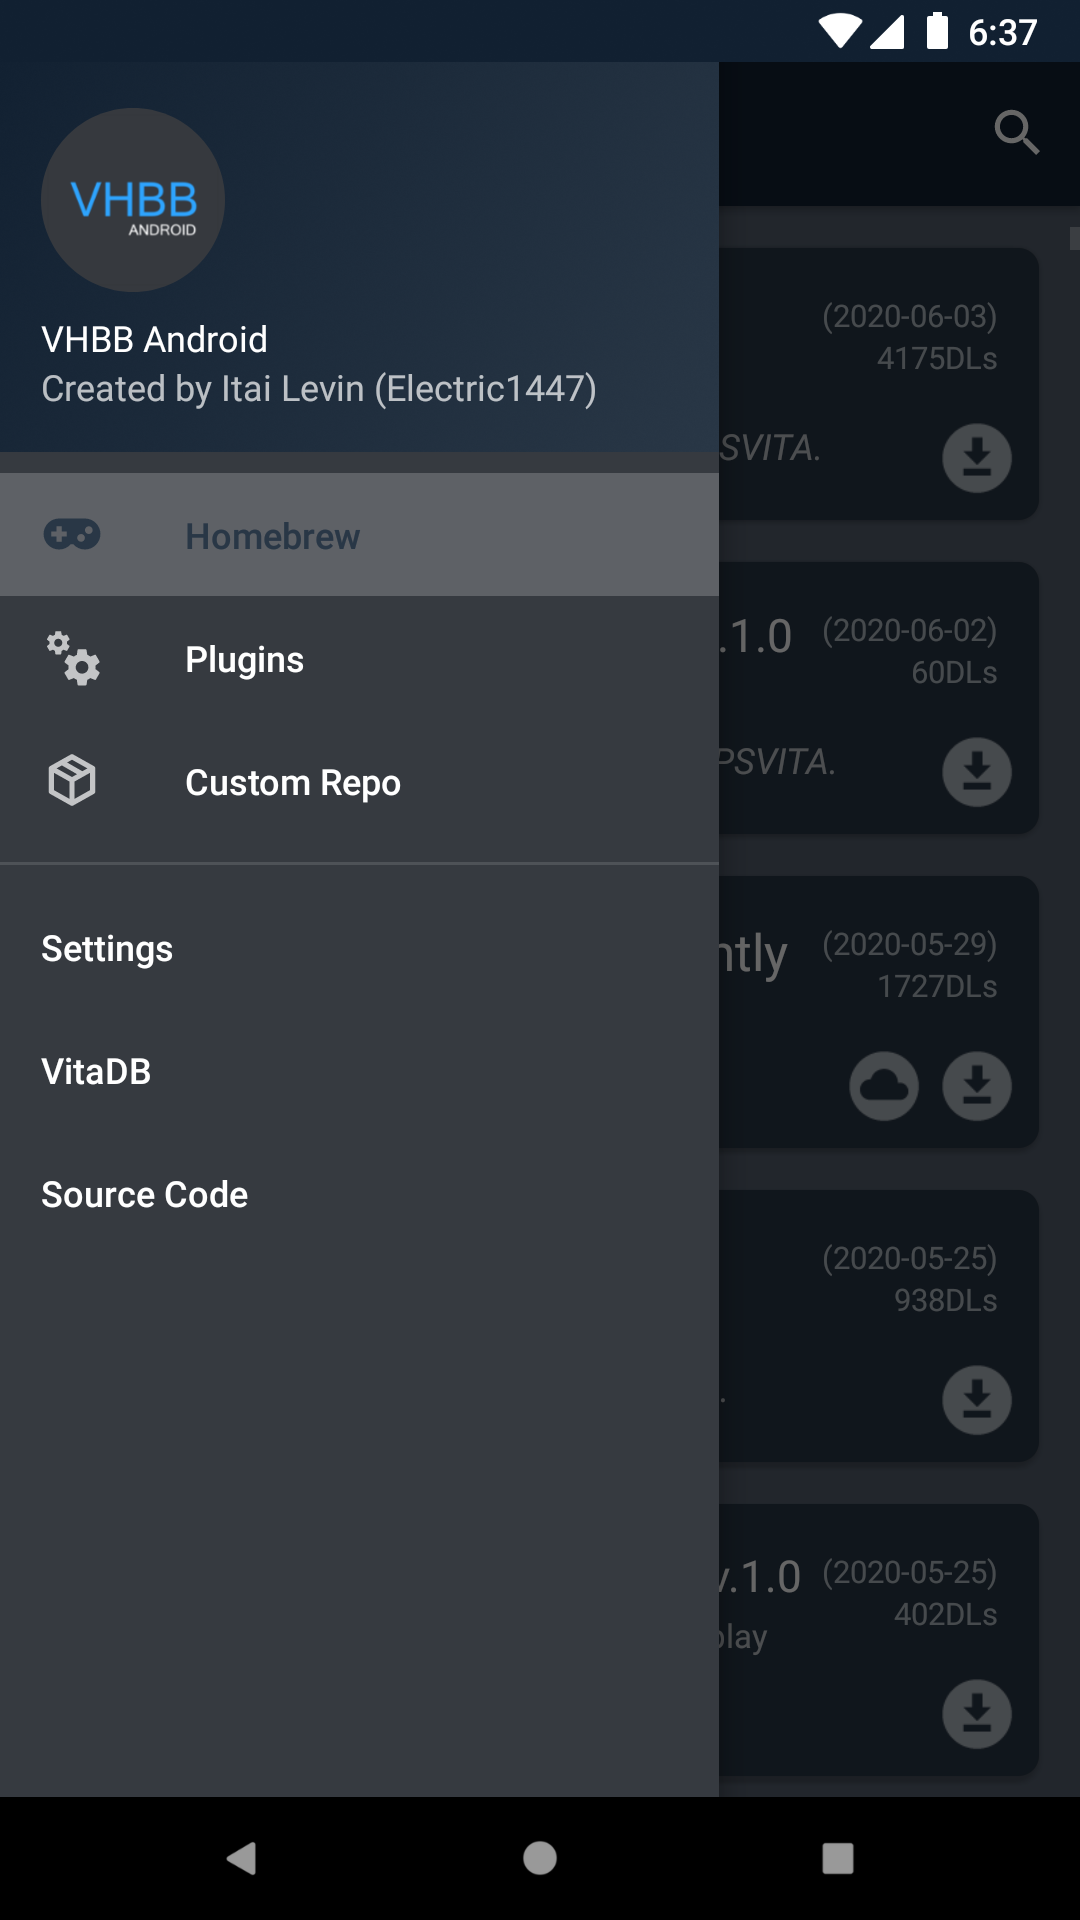
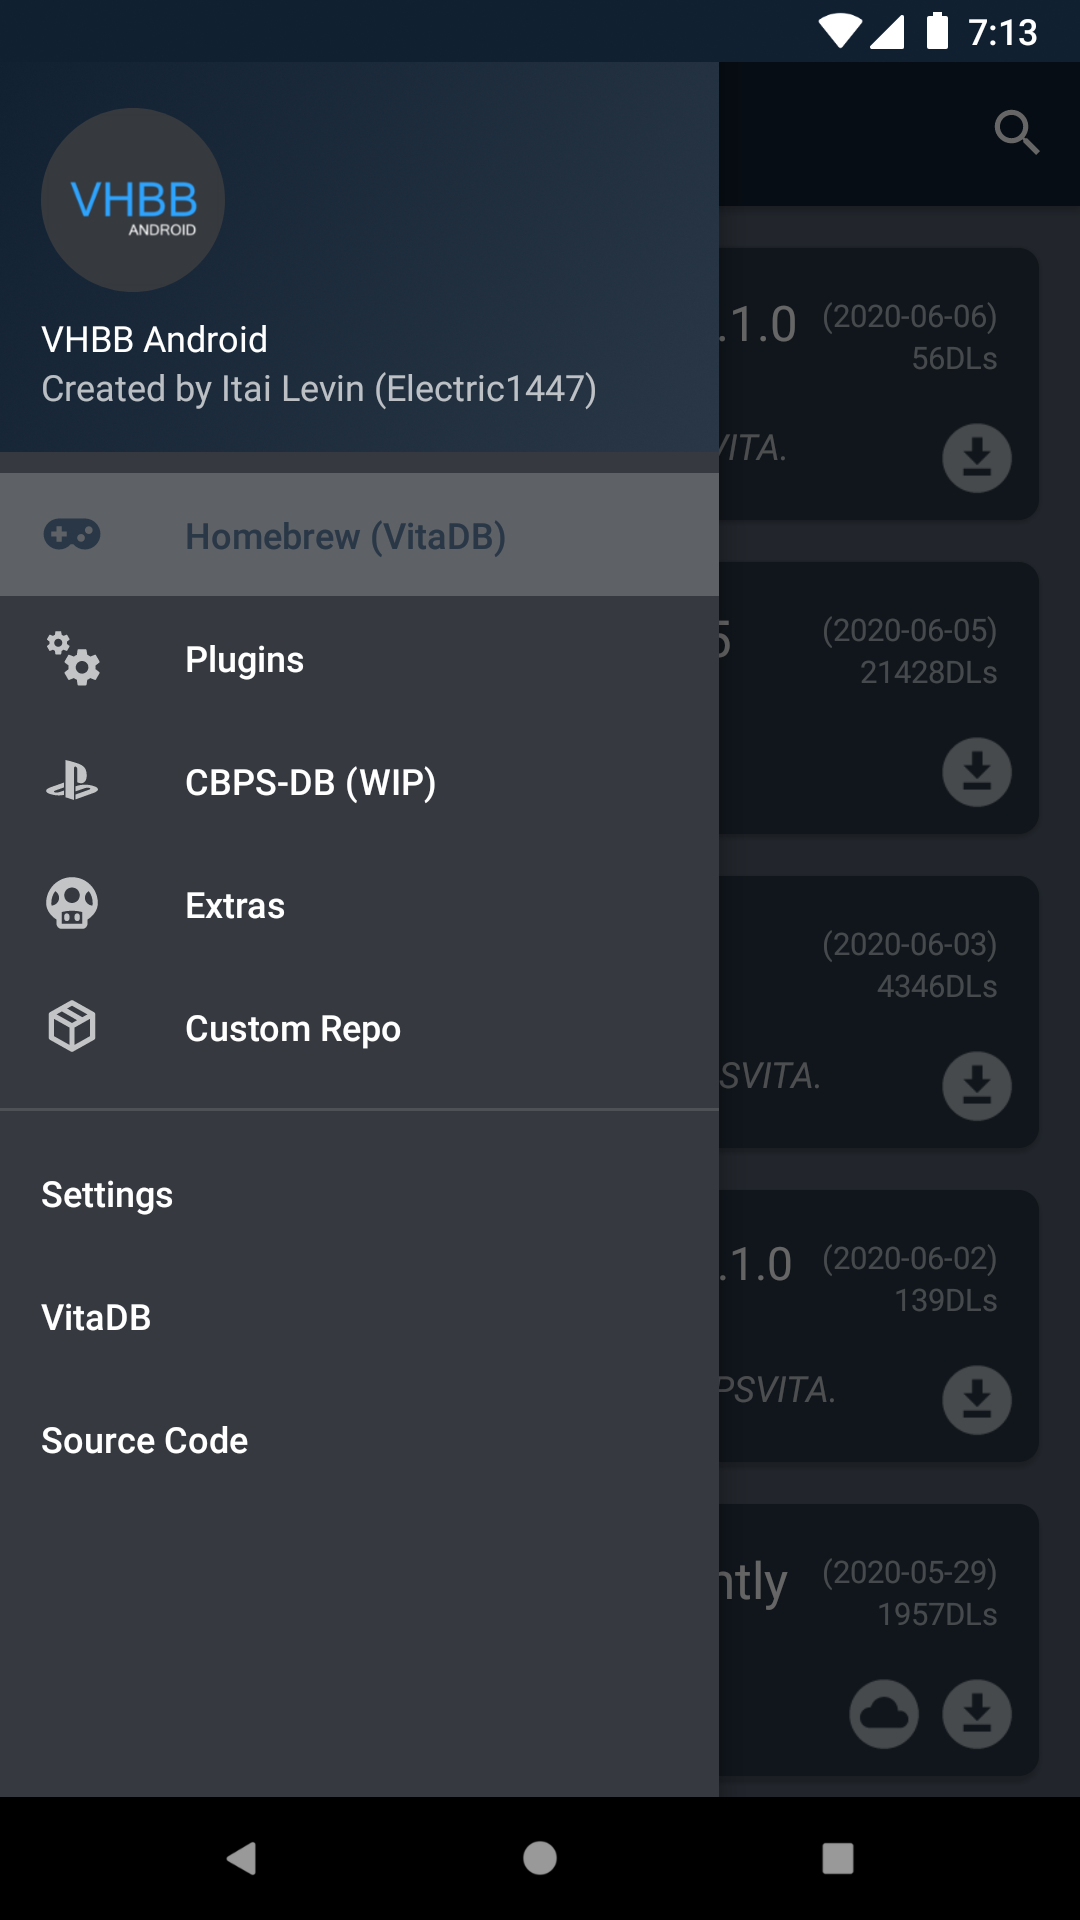
Updated screenshots.

diff --git a/README.md b/README.md
@@ -13,4 +13,6 @@ Vita Homebrew Browser client for Android
 - Internet connection
 
 ## Screenshots
-<img src="screenshots/screenshot_homebrew.png" width="400"> &nbsp; <img src="screenshots/screenshot_plugins.png" width="400"> &nbsp; <img src="screenshots/screenshot_customrepo.png" width="400">  &nbsp; <img src="screenshots/screenshot_drawer.png" width="400">
+<img src="screenshots/screenshot_homebrew.png" width="400">   &nbsp; <img src="screenshots/screenshot_plugins.png" width="400"> &nbsp;
+<img src="screenshots/screenshot_cbpsdb.png" width="400">     &nbsp; <img src="screenshots/screenshot_extras.png" width="400">  &nbsp;
+<img src="screenshots/screenshot_customrepo.png" width="400"> &nbsp; <img src="screenshots/screenshot_drawer.png" width="400">
